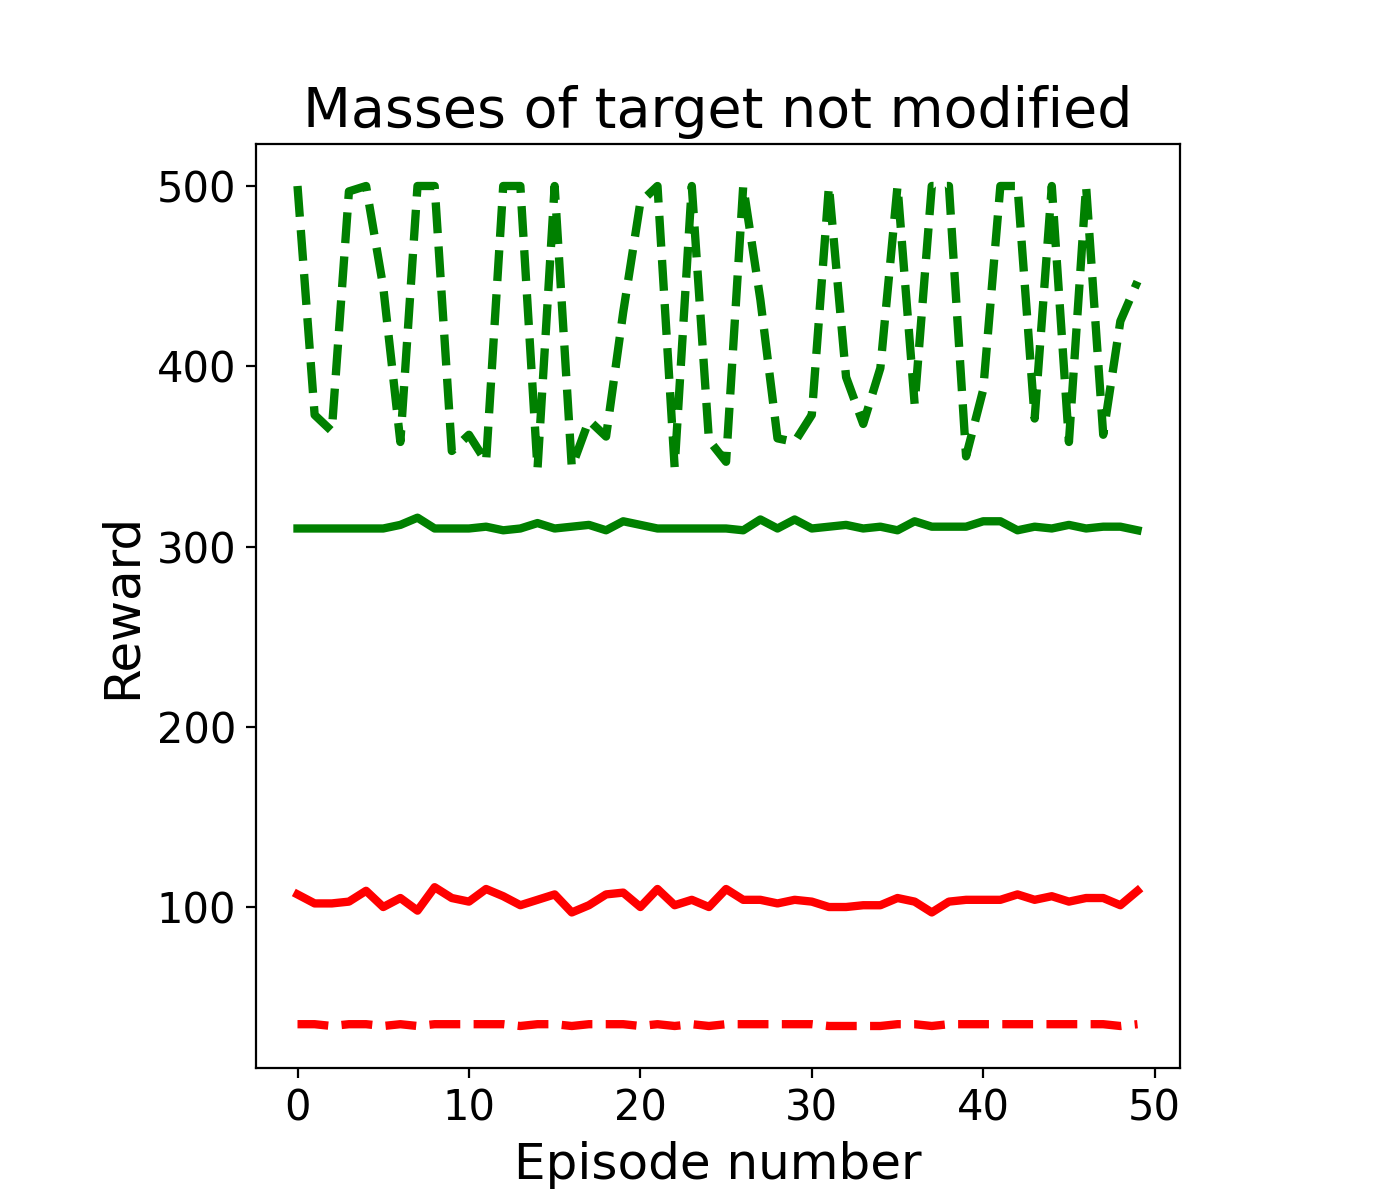
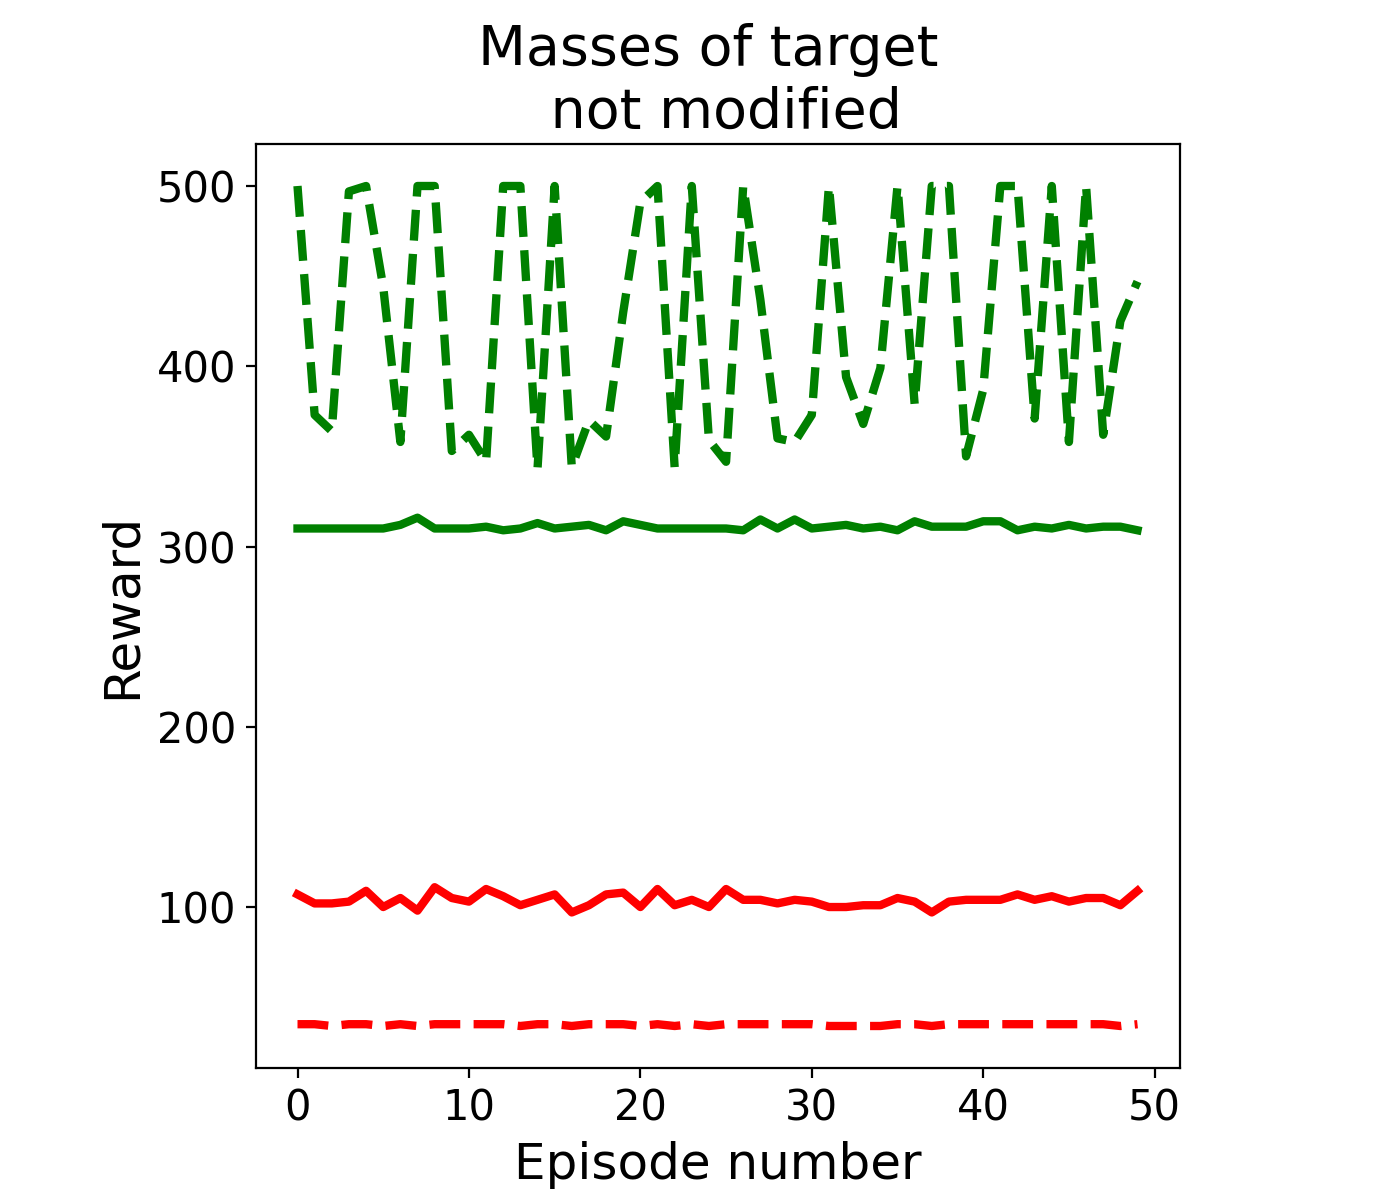
updated plot step 4.1

Changed region(s): [[0.215, 0.0, 0.8293, 0.1233]]

diff --git a/visualization/plotters/plot_step4_1.py b/visualization/plotters/plot_step4_1.py
@@ -5,6 +5,7 @@ import os
 
 def main():
     plt.rcParams.update({'font.size': 8})
+<<<<<<< HEAD
     title_list = ["Masses of target \n reduced by 50% (except torso)",
                   "Masses of target \n reduced by 25% (except torso)", "Masses of target not modified",
                   "Masses of target \n increased by 25%", "Masses of target \n increased by 50%"]
@@ -19,6 +20,14 @@ def main():
             os.path.join("..", "data", "step4_1", f"step4_1_{i}_test_MINIMIZE_MLP_log.csv"))
 
         fig, ax = plt.subplots(figsize=(7, 6))
+=======
+    title_list = ["Masses of target \n reduced by 50% (except torso)", "Masses of target \n reduced by 25% (except torso)", "Masses of target \n not modified", "Masses of target \n increased by 25% (except torso)", "Masses of target \n increased by 50% (except torso)"]
+    for i in range(0,5):
+        df_step4_1_maximizeCNN = pd.read_csv(os.path.join("..", "data", f"step4_1", f"step4_1_{i}_test_MAXIMIZE_CNN_log.csv"))
+        df_step4_1_maximizeMLP = pd.read_csv(os.path.join("..", "data", "step4_1", f"step4_1_{i}_test_MAXIMIZE_MLP_log.csv"))
+        df_step4_1_minimizeCNN = pd.read_csv(os.path.join("..", "data", "step4_1", f"step4_1_{i}_test_MINIMIZE_CNN_log.csv"))
+        df_step4_1_minimizeMLP = pd.read_csv(os.path.join("..", "data", "step4_1", f"step4_1_{i}_test_MINIMIZE_MLP_log.csv"))
+>>>>>>> 5ab4992a (updated plot step 4.1)
 
         x = df_step4_1_maximizeCNN['Step']
         y1 = df_step4_1_maximizeCNN['Value']
